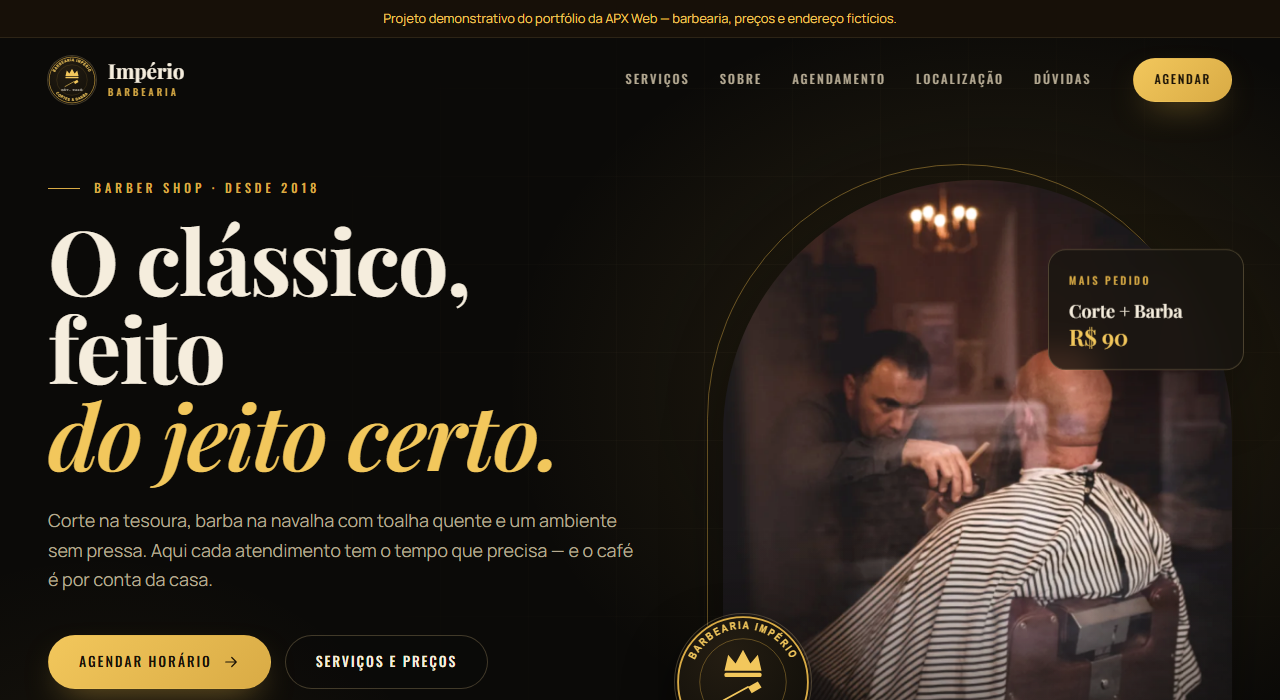
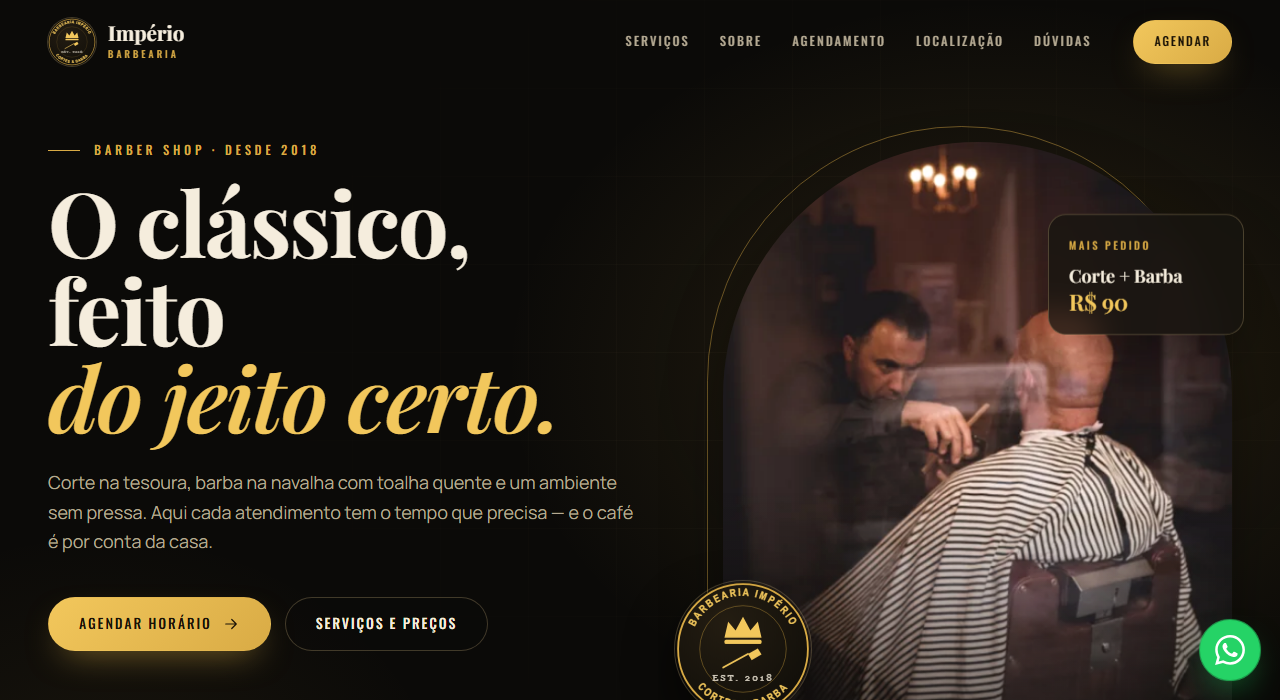
Cursor mais discreto, fundo sem luz seguindo o mouse e miniaturas atualizadas

diff --git a/script.js b/script.js
@@ -313,7 +313,6 @@
     let h = 0;
     let blobs = [];
     let pulses = [];
-    let trail = [];
     let running = false;
     let rafId = null;
     const pointer = { x: 0.5, y: 0.4, tx: 0.5, ty: 0.4, weight: 0 };
@@ -378,21 +377,12 @@
       blobs.forEach(blob => {
         const baseX = blob.cx + Math.sin(t * blob.sx * Math.PI * 2 + blob.px) * blob.ax;
         const baseY = blob.cy + Math.cos(t * blob.sy * Math.PI * 2 + blob.py) * blob.ay;
-        const pull = pointer.weight * (0.1 + blob.index * 0.035);
+        const pull = pointer.weight * (0.15 + blob.index * 0.05);
         const x = (baseX + (pointer.x - baseX) * pull) * w;
         const y = (baseY + (pointer.y - baseY) * pull) * h;
         const color = mix(BASE_COLORS[blob.index], DEEP_COLORS[blob.index], depth * 0.75);
         light(x, y, blob.r * w, color, blob.a);
       });
-
-      if (pointer.weight > 0.01) {
-        trail.forEach(point => { point.life -= 0.045; });
-        trail = trail.filter(point => point.life > 0);
-        trail.forEach(point => {
-          light(point.x * w, point.y * h, (0.05 + 0.07 * point.life) * w, [130, 190, 255], 0.05 * point.life * pointer.weight);
-        });
-        light(pointer.x * w, pointer.y * h, 0.22 * w, mix([0, 140, 255], [0, 220, 210], depth * 0.75), 0.23 * pointer.weight);
-      }
 
       pulses.forEach(pulse => { pulse.t += 0.018; });
       pulses = pulses.filter(pulse => pulse.t < 1);
@@ -423,7 +413,6 @@
       pointer.tx = e.clientX / window.innerWidth;
       pointer.ty = e.clientY / window.innerHeight;
       pointer.weight = Math.min(1, pointer.weight + 0.08);
-      if (trail.length < 20) trail.push({ x: pointer.x, y: pointer.y, life: 1 });
     }, { passive: true });
 
     window.addEventListener('pointerdown', (e) => {

diff --git a/styles.css b/styles.css
@@ -64,22 +64,21 @@ body {
 }
 
 .cursor-dot {
-  width: 6px;
-  height: 6px;
-  margin: -3px 0 0 -3px;
-  background: var(--white);
+  width: 5px;
+  height: 5px;
+  margin: -2.5px 0 0 -2.5px;
+  background: rgba(255, 255, 255, 0.85);
   transition: opacity 0.2s ease;
 }
 
 .cursor-ring {
-  width: 34px;
-  height: 34px;
-  margin: -17px 0 0 -17px;
-  border: 1px solid rgba(125, 179, 255, 0.7);
-  background: rgba(0, 98, 255, 0.05);
-  transition: width 0.28s var(--ease), height 0.28s var(--ease),
-              margin 0.28s var(--ease), background 0.28s ease,
-              border-color 0.28s ease, opacity 0.2s ease;
+  width: 26px;
+  height: 26px;
+  margin: -13px 0 0 -13px;
+  border: 1px solid rgba(255, 255, 255, 0.3);
+  background: transparent;
+  transition: width 0.25s var(--ease), height 0.25s var(--ease),
+              margin 0.25s var(--ease), border-color 0.25s ease, opacity 0.2s ease;
 }
 
 html.has-cursor .cursor-dot,
@@ -98,18 +97,17 @@ html.has-cursor textarea {
 }
 
 html.has-cursor .cursor-ring.is-hovering {
-  width: 62px;
-  height: 62px;
-  margin: -31px 0 0 -31px;
-  background: rgba(0, 98, 255, 0.14);
-  border-color: var(--blue-bright);
+  width: 38px;
+  height: 38px;
+  margin: -19px 0 0 -19px;
+  border-color: rgba(255, 255, 255, 0.6);
 }
 
 html.has-cursor .cursor-ring.is-pressed {
-  width: 22px;
-  height: 22px;
-  margin: -11px 0 0 -11px;
-  background: rgba(0, 98, 255, 0.3);
+  width: 20px;
+  height: 20px;
+  margin: -10px 0 0 -10px;
+  border-color: rgba(255, 255, 255, 0.75);
 }
 
 img {
